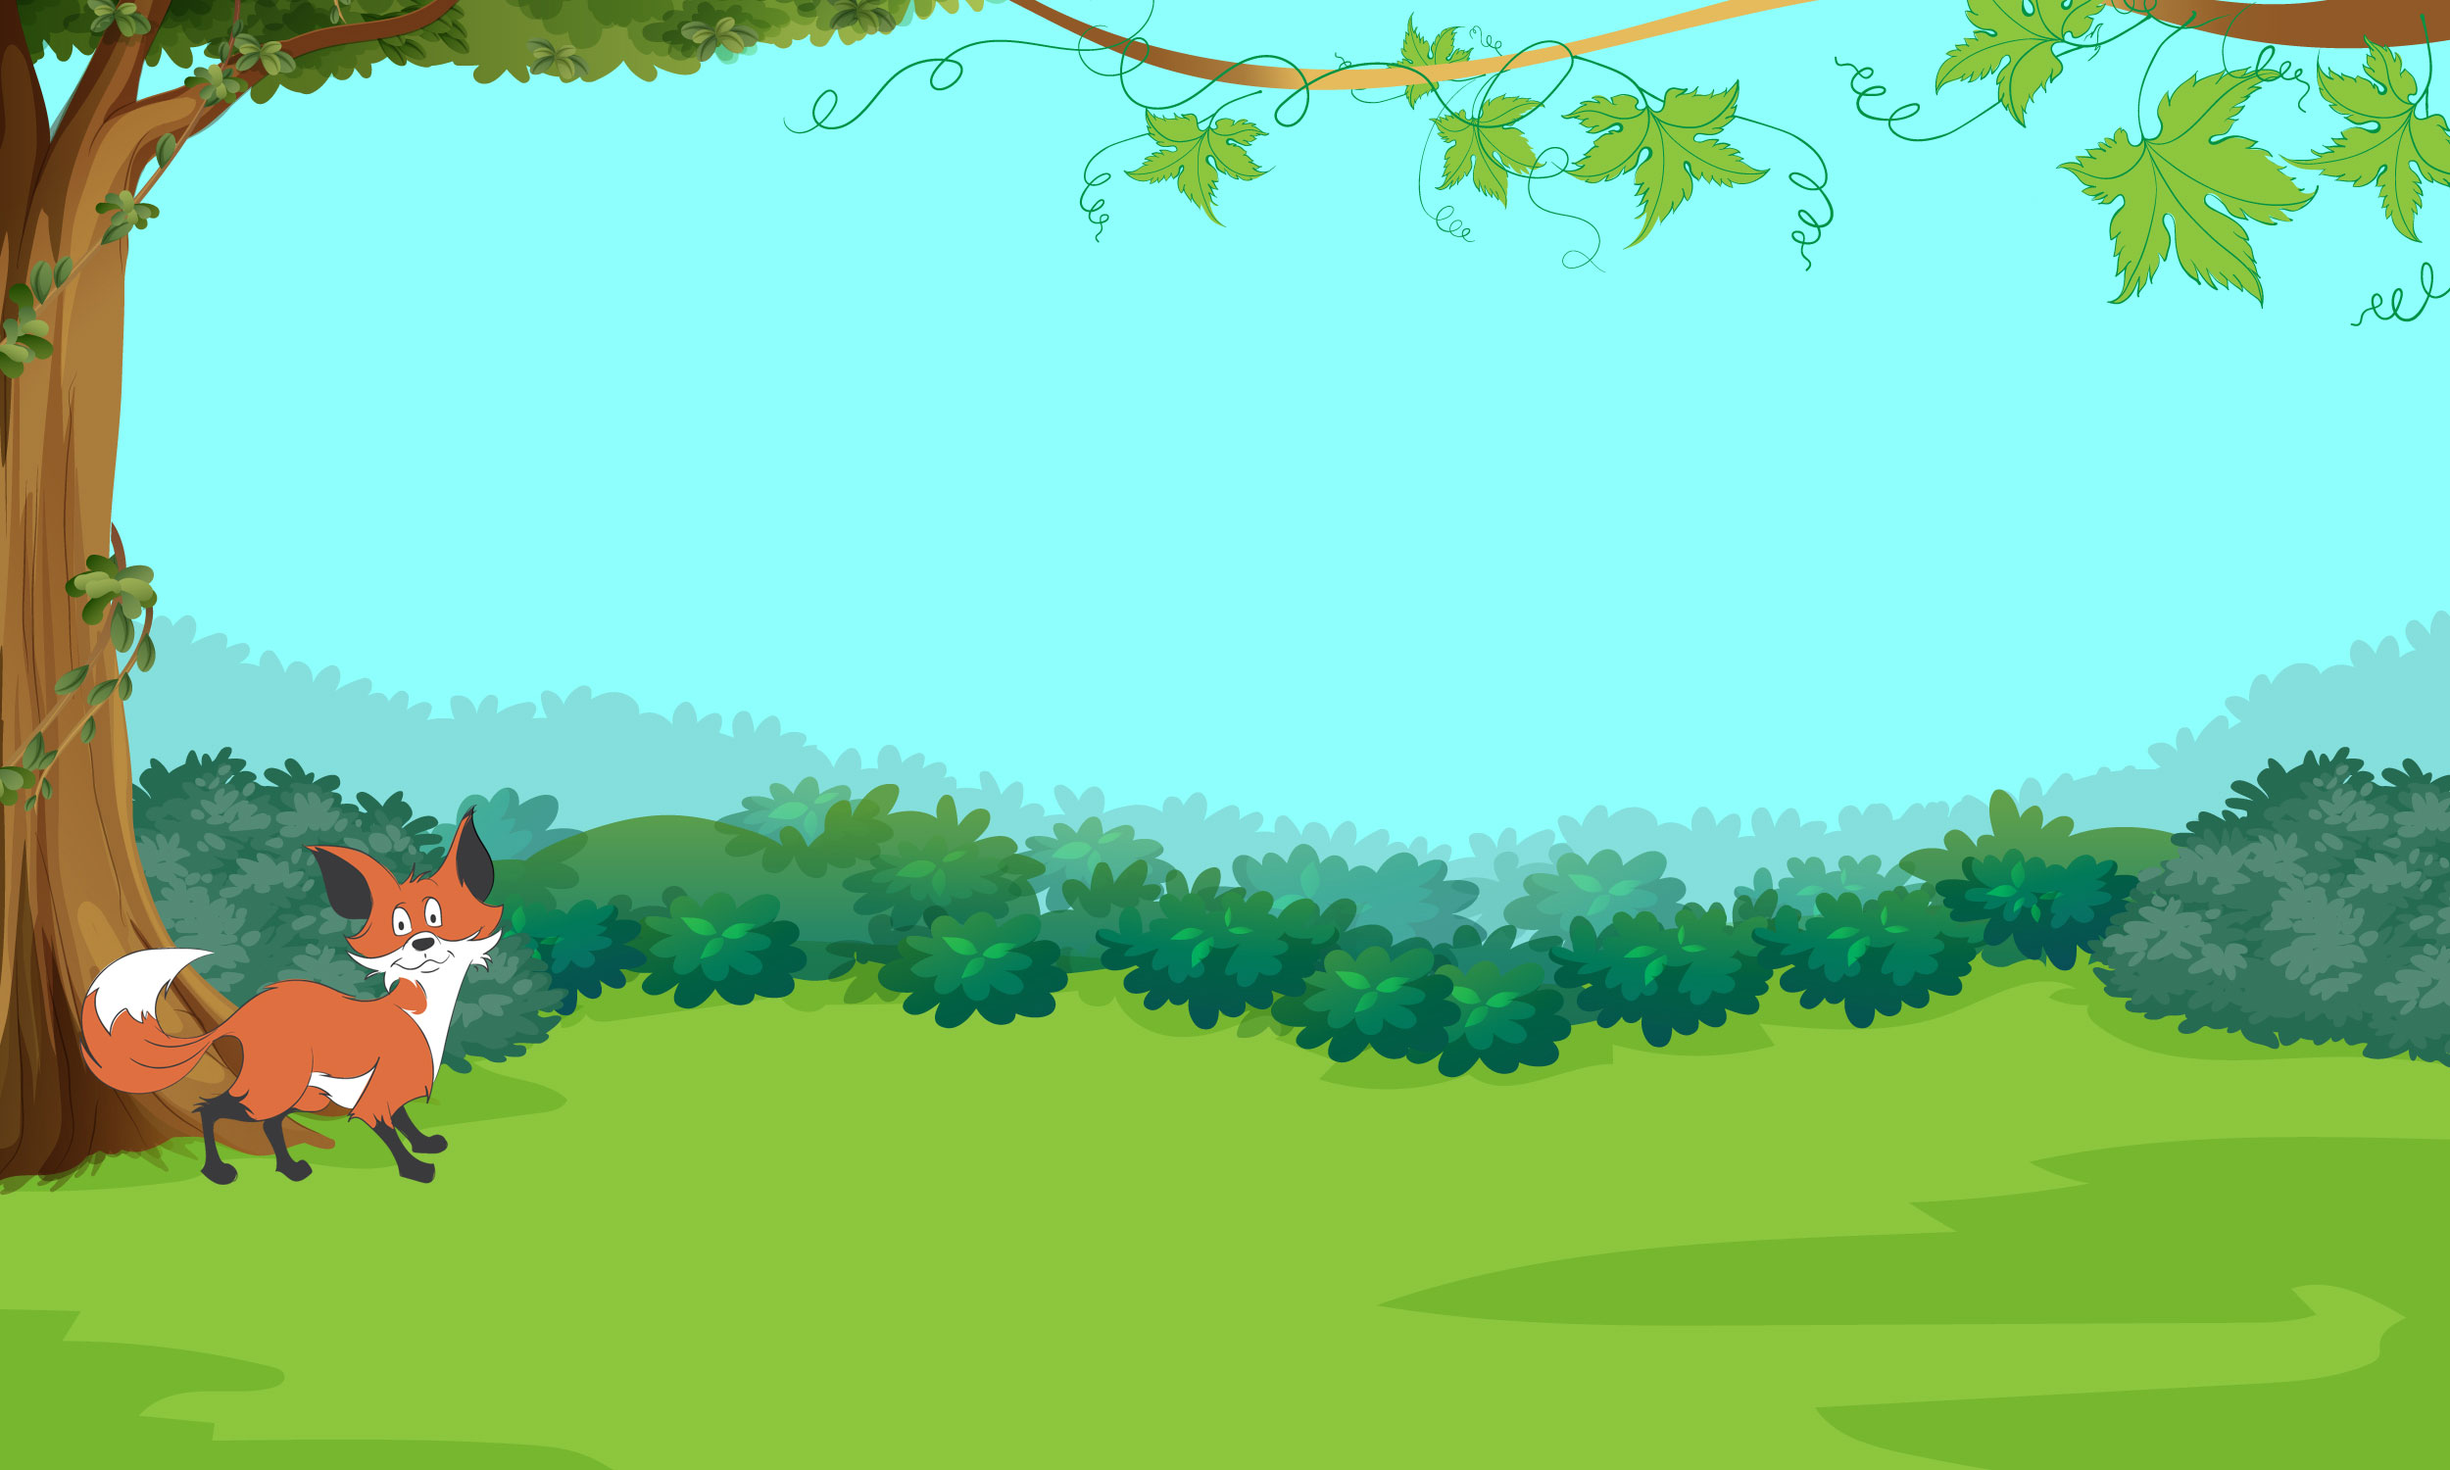
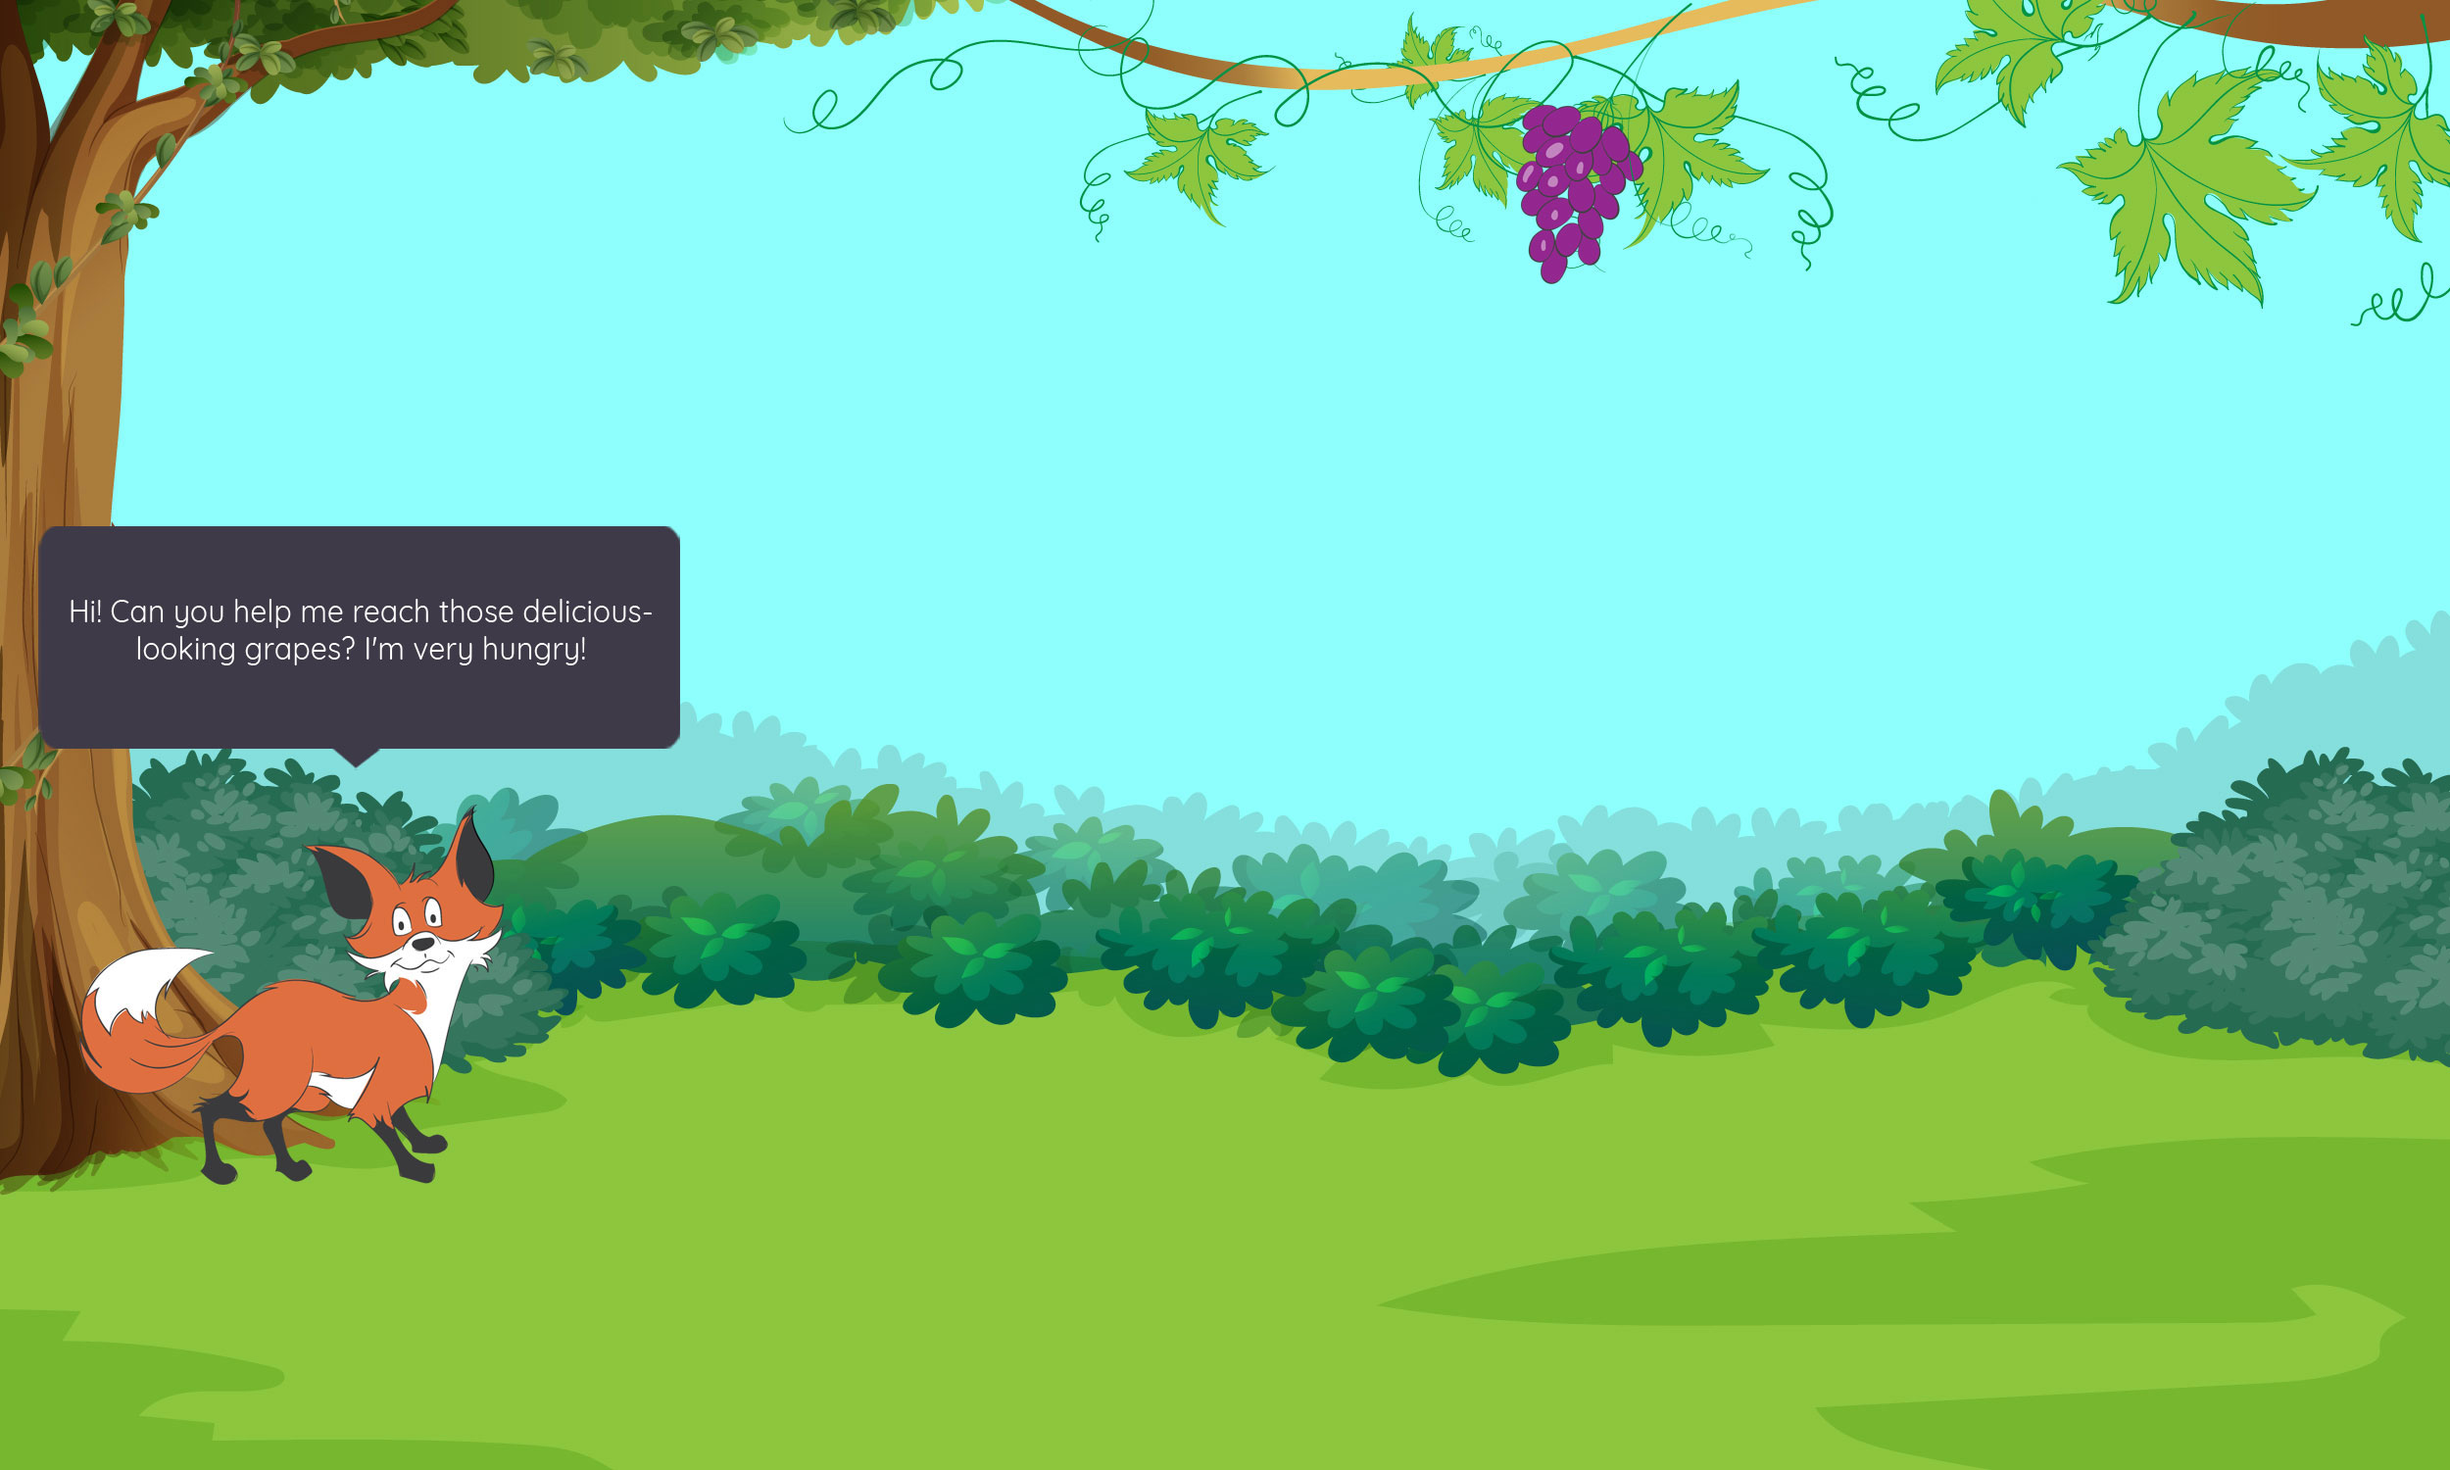
fox storyline grapes imahe added in bg img

Changed region(s): [[0.0, 0.3373, 0.2808, 0.5213], [0.624, 0.0613, 0.6864, 0.184]]

diff --git a/src/app/shared-pages/storyline-screen/storyline-screen.component.html b/src/app/shared-pages/storyline-screen/storyline-screen.component.html
@@ -1,7 +1,7 @@
 <app-narration-container (click)="goNext()">
   <img class="storyline-image" [src]="story.backgroundImgs[activeIndex]">
-    <div class="fox-activity-bubble">
+    <!-- <div class="fox-activity-bubble">
       <app-speech-bubble>kjfdhglkjhfdg</app-speech-bubble>
-    </div><!-- fox-activity-bubble -->
+    </div>fox-activity-bubble -->
   <app-click-to-continue-button></app-click-to-continue-button>
 </app-narration-container>
